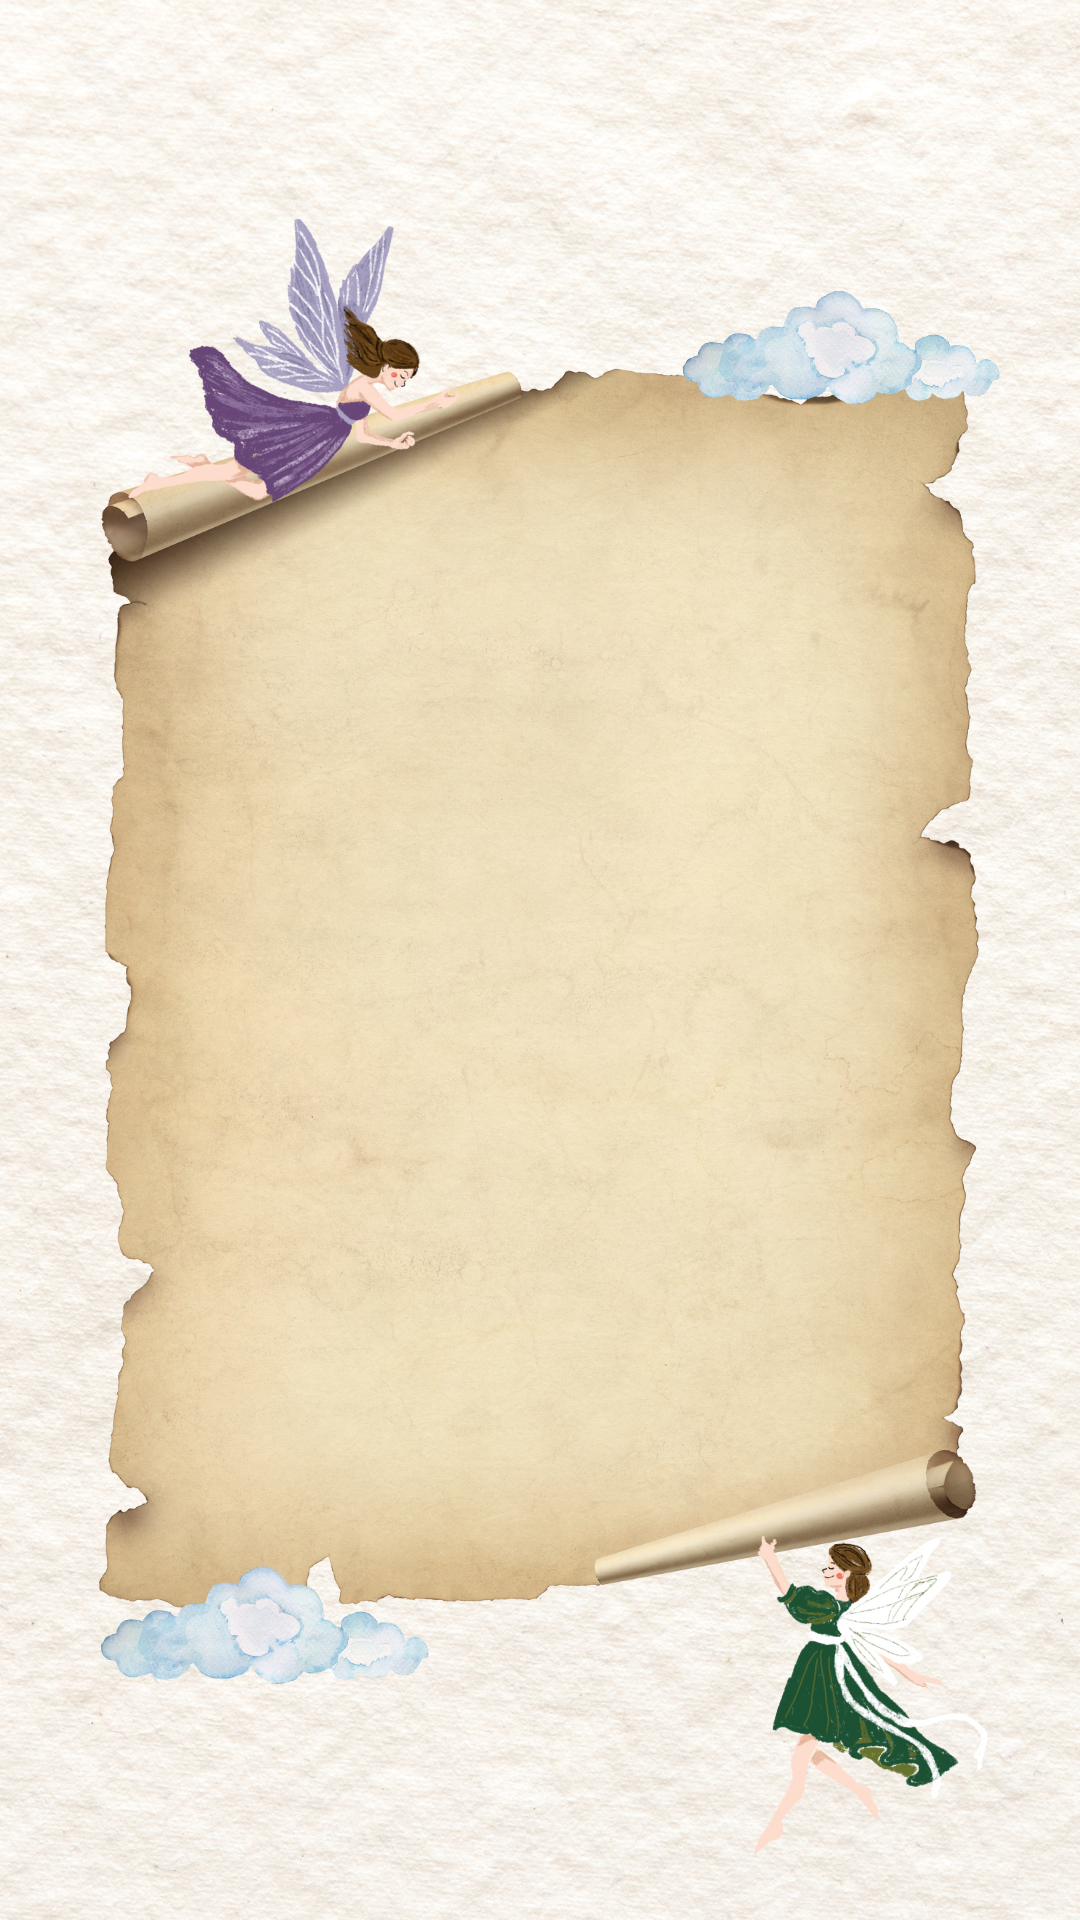
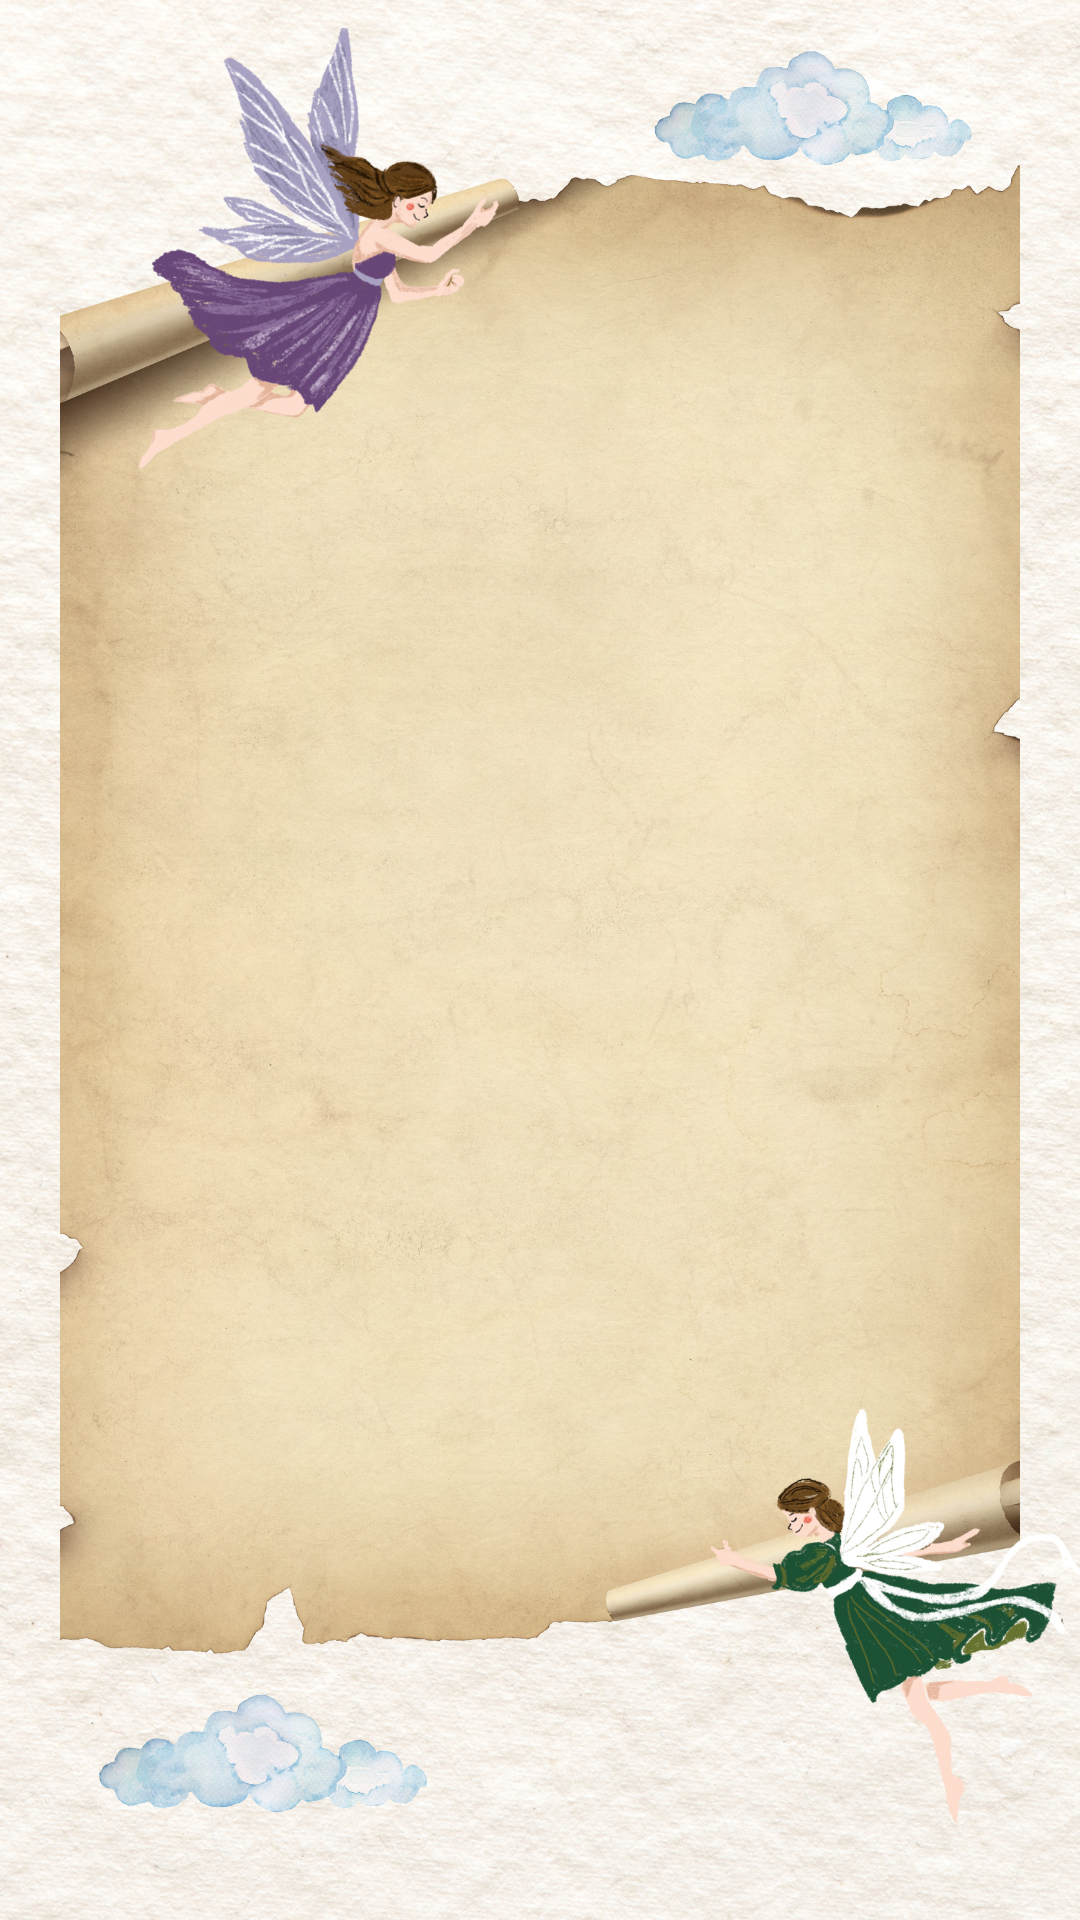
update size of mobile background - intro

Changed region(s): [[0.0306, 0.0, 0.9778, 0.9688], [0.7028, 0.9375, 0.7333, 0.9688]]

diff --git a/src/app/page.tsx b/src/app/page.tsx
@@ -26,9 +26,8 @@ export default function Home() {
       {/* Intro Video */}
       {!showWebsite && (
         <div
-          className={`fixed inset-0 z-50 bg-black transition-opacity duration-1000 ${
-            videoEnded ? "opacity-0 pointer-events-none" : "opacity-100"
-          }`}
+          className={`fixed inset-0 z-50 bg-black transition-opacity duration-1000 ${videoEnded ? "opacity-0 pointer-events-none" : "opacity-100"
+            }`}
         >
           {/* Mobile Intro */}
           <video
@@ -84,30 +83,30 @@ export default function Home() {
               />
             </section>
 
-{/* Section Intro */}
-<section
-  id="intro"
-  className="relative min-h-screen bg-[url('/images/intro-mobile.png')] sm:bg-[url('/images/intro-full.png')] bg-cover bg-center flex justify-center items-center px-2 py-16"
->
-  <div className="w-[80%] sm:w-[70%] md:w-[55%] lg:w-[30%] flex items-center justify-center px-2 sm:px-4 md:px-6">
-    <div
-      className={`
+            {/* Section Intro */}
+            <section
+              id="intro"
+              className="relative min-h-screen bg-[url('/images/intro-mobile.png')] sm:bg-[url('/images/intro-full.png')] bg-cover bg-center flex justify-center items-center px-2 py-16"
+            >
+              <div className="w-[80%] sm:w-[70%] md:w-[55%] lg:w-[30%] flex items-center justify-center px-2 sm:px-4 md:px-6">
+                <div
+                  className={`
         ${uncial.className} text-[#3b2a1a]
         text-xs sm:text-sm md:text-base
         leading-relaxed text-justify
         overflow-visible
         pt-6
       `}
-    >
-      <p className="first-letter:text-5xl first-letter:font-bold first-letter:text-[#6f2079] first-letter:leading-[0.8] first-letter:mr-2 first-letter:tracking-tight ml-[-0.5rem]">
-        Queridos amigos e família, estamos nos aproximando do nosso tão sonhado casamento. Esse dia, assim como nosso amor, foi pensado e concebido nos mínimos detalhes.
-      </p>
-      <p className="mt-6">
-        Esperamos que vocês possam sentir a energia mágica do nosso conto de fadas escocês e estejam muito dispostos a celebrar essa união conosco. Aqui, vocês encontrarão tudo o que precisam saber sobre a nossa celebração.
-      </p>
-    </div>
-  </div>
-</section>
+                >
+                  <p className="first-letter:text-5xl first-letter:font-bold first-letter:text-[#6f2079] first-letter:leading-[0.8] first-letter:mr-2 first-letter:tracking-tight ml-[-0.5rem]">
+                    Queridos amigos e família, estamos nos aproximando do nosso tão sonhado casamento. Esse dia, assim como nosso amor, foi pensado e concebido nos mínimos detalhes.
+                  </p>
+                  <p className="mt-6">
+                    Esperamos que vocês possam sentir a energia mágica do nosso conto de fadas escocês e estejam muito dispostos a celebrar essa união conosco. Aqui, vocês encontrarão tudo o que precisam saber sobre a nossa celebração.
+                  </p>
+                </div>
+              </div>
+            </section>
 
 
 
